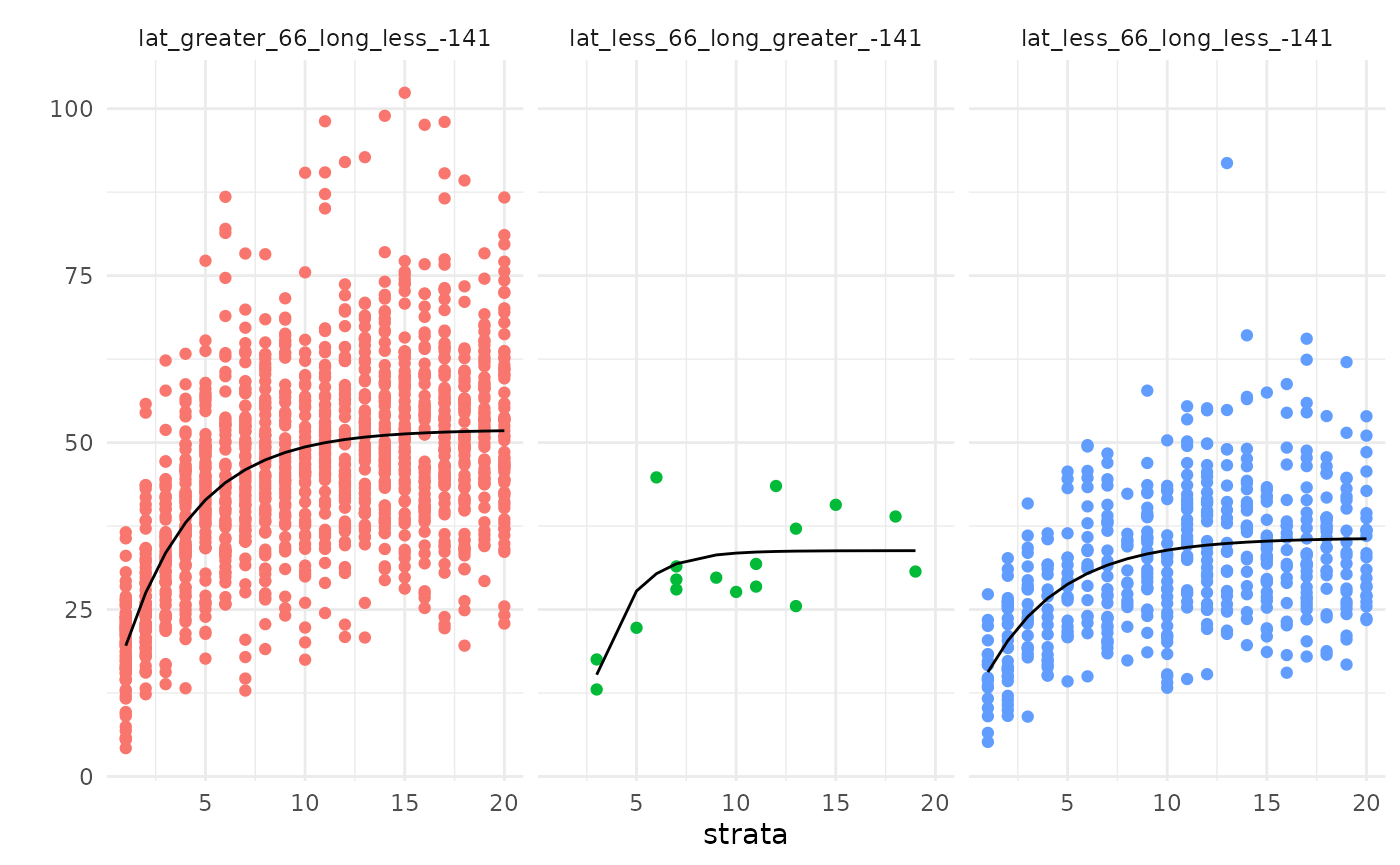
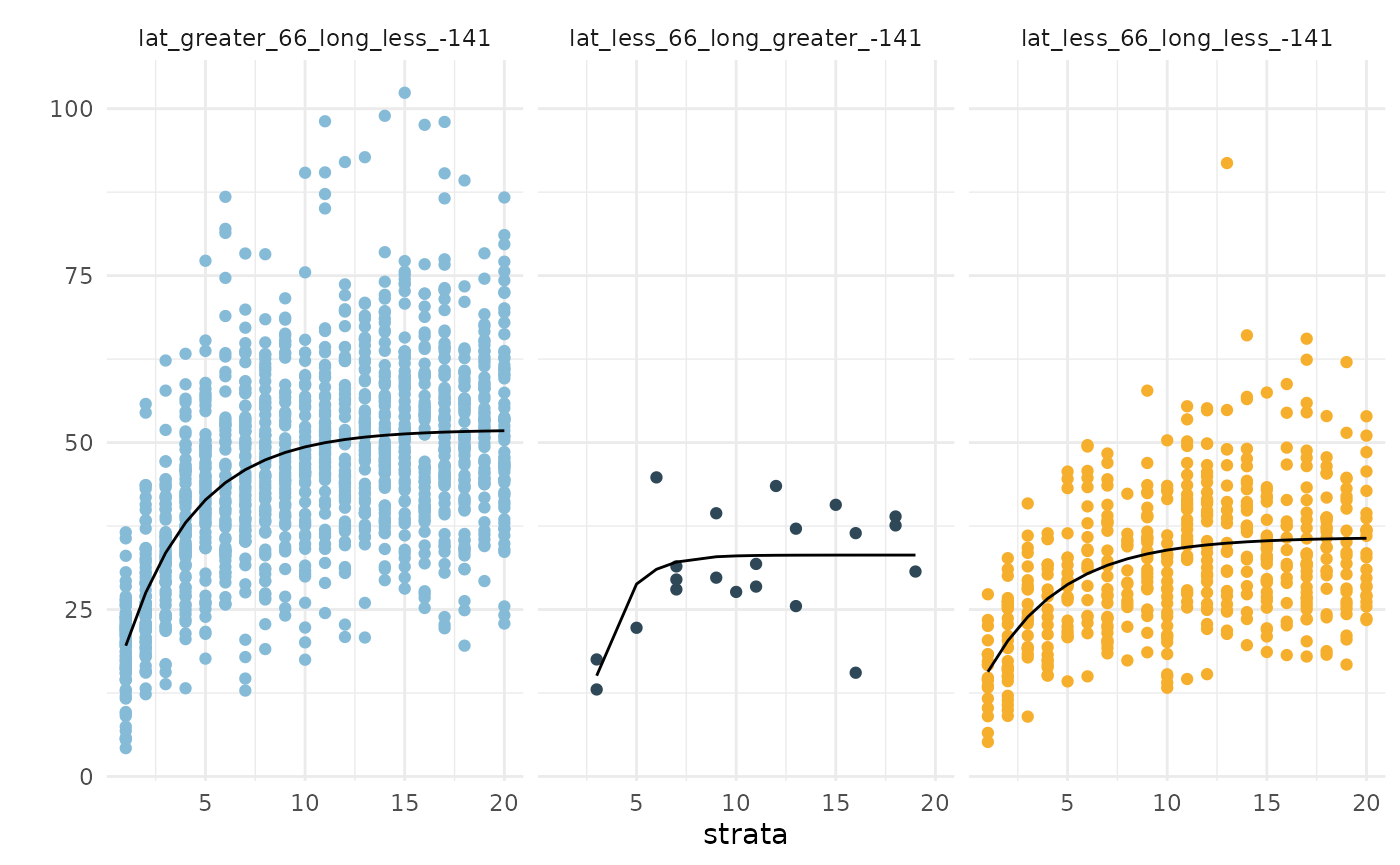
Deploying to gh-pages from @ afsc-assessments/growthbreaks@3822e7b2b49bbf98c452d8d189b42c3a735c6588 🚀

diff --git a/articles/getting_started.html b/articles/getting_started.html
@@ -148,18 +148,10 @@ and b) the resultant impact on our perception of length-at-age.</p>
 <p><em>It is common for growth curves to be very similar especially when
 the number of strata is large (&gt;3), so user judgment is required to
 discern the best use of the information provided here</em>.</p>
-<!-- # ```{r, echo = TRUE, include = TRUE, warning = FALSE}  -->
-<!-- # # First, ensure the TMB model is loaded.  -->
-<!-- #  -->
-<!-- # ``` -->
-<!-- #  -->
-<!-- # ```{r, echo = FALSE, include = TRUE, warning = FALSE}  -->
-<!-- # # data(fits1);data(fits2) -->
-<!-- # ``` -->
 <p>Run the function with the breakpoints as-is and inspect the
 outputs.</p>
 <div class="sourceCode" id="cb4"><pre class="downlit sourceCode r">
-<code class="sourceCode R"><span><span class="co"># fits1 &lt;- refit_Growth(simulated_data, breakpoints, showPlot = FALSE)</span></span>
+<code class="sourceCode R"><span><span class="va">fits1</span> <span class="op">&lt;-</span> <span class="fu"><a href="../reference/refit_Growth.html">refit_Growth</a></span><span class="op">(</span><span class="va">simulated_data</span>, <span class="va">breakpoints</span>, showPlot <span class="op">=</span> <span class="cn">FALSE</span><span class="op">)</span></span>
 <span></span>
 <span><span class="fu"><a href="https://rdrr.io/r/base/names.html" class="external-link">names</a></span><span class="op">(</span><span class="va">fits1</span><span class="op">$</span><span class="va">split_tables</span><span class="op">)</span> <span class="co">## description of the strata used</span></span>
 <span><span class="co">#&gt; [1] "lat_less_66_long_less_-141"    "lat_greater_66_long_less_-141"</span></span>
@@ -199,9 +191,9 @@ south. In this case, we would do away with the breakpoint at
 replacing it with <code>-Inf</code>.</p>
 <div class="sourceCode" id="cb7"><pre class="downlit sourceCode r">
 <code class="sourceCode R"><span><span class="va">breakpoints</span><span class="op">$</span><span class="va">long</span> <span class="op">&lt;-</span> <span class="op">-</span><span class="cn">Inf</span> </span>
-<span><span class="co"># fits2 &lt;- refit_Growth(simulated_data, </span></span>
-<span><span class="co">#                       breakpoints, </span></span>
-<span><span class="co">#                       showPlot = FALSE) ## refit the curves</span></span></code></pre></div>
+<span><span class="va">fits2</span> <span class="op">&lt;-</span> <span class="fu"><a href="../reference/refit_Growth.html">refit_Growth</a></span><span class="op">(</span><span class="va">simulated_data</span>,</span>
+<span>                      <span class="va">breakpoints</span>,</span>
+<span>                      showPlot <span class="op">=</span> <span class="cn">FALSE</span><span class="op">)</span> <span class="co">## refit the curves</span></span></code></pre></div>
 <p>We can repeat the visualization and see that 1) the key parameter
 values are now more distinct from one another and 2) so are the
 curves.</p>
